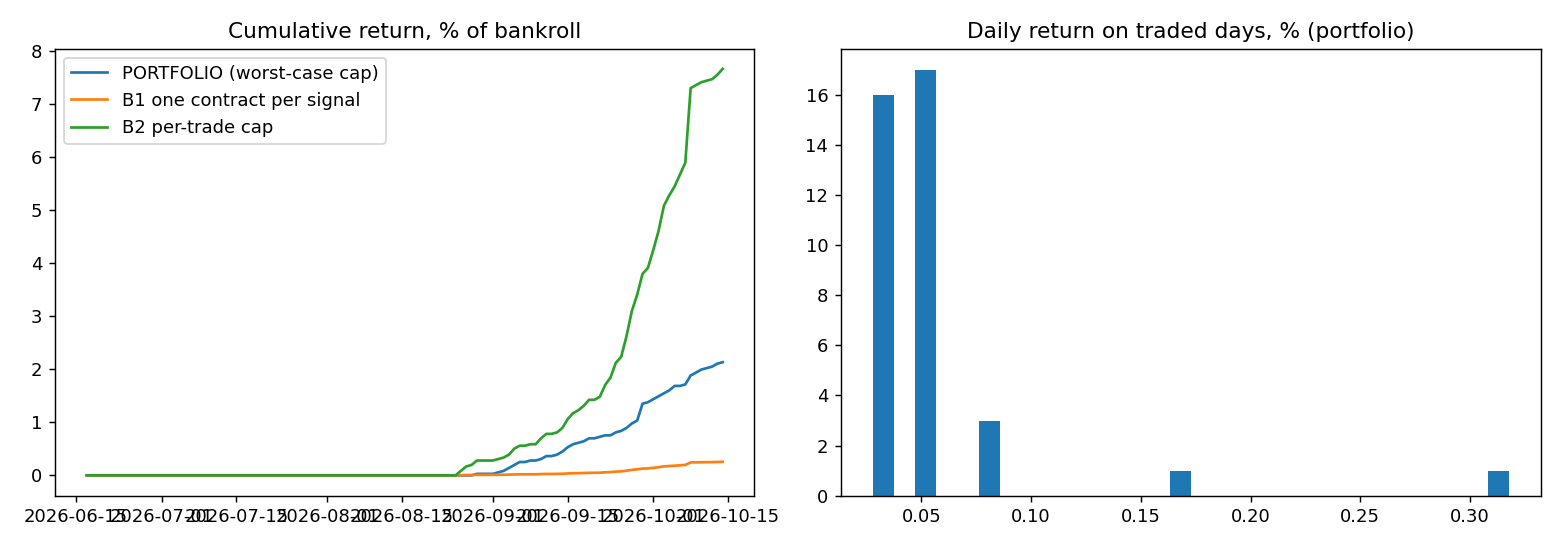
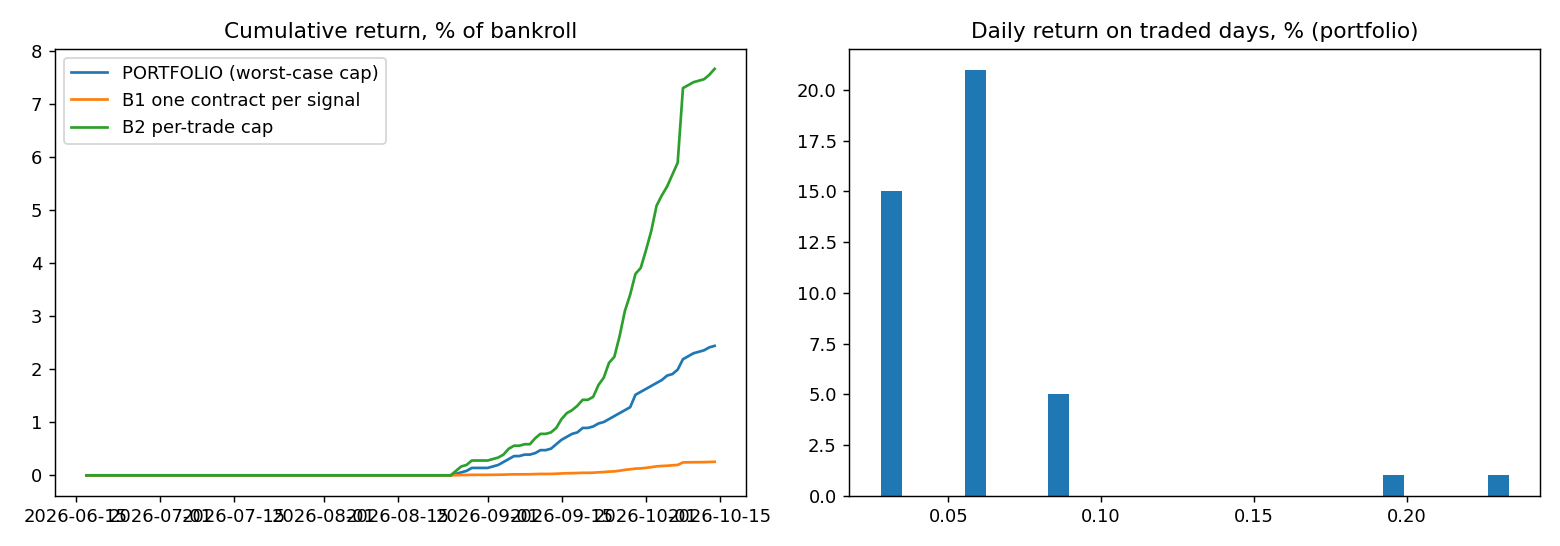
Fix tail sizing when a hedge leg cannot fill; report clipped sizing prices

diff --git a/strategies/btc-kalshi-digital/tail_strategy.py b/strategies/btc-kalshi-digital/tail_strategy.py
@@ -139,6 +139,11 @@ def run(obs, cfg, sizing="portfolio"):
                     if n < cfg.min_cell_n:
                         continue
                     side, price, edge = best_side(r.bid, r.ask, f, cfg)
+                    fill = r.ask_f if side == 1 else r.bid_f
+                    # a leg whose fill-hour quote is unusable is never placed; leaving it out BEFORE sizing keeps
+                    # the LP from counting on a hedge that cannot exist
+                    if (not np.isfinite(fill)) or (fill >= 1.0 if side == 1 else fill <= 0.0):
+                        continue
                     if edge >= cfg.min_edge:
                         cands.append(dict(day=day, ticker=r.ticker, H=H, side=side, size_price=price, edge=edge, f=f,
                                           y=r.y, floor=r.floor, bid_f=r.bid_f, ask_f=r.ask_f))
@@ -156,8 +161,7 @@ def run(obs, cfg, sizing="portfolio"):
                 placed = []
                 for c, qi in zip(cands, q):
                     fill = c["ask_f"] if c["side"] == 1 else c["bid_f"]
-                    unusable = (not np.isfinite(fill)) or (fill >= 1.0 if c["side"] == 1 else fill <= 0.0)
-                    if qi <= 0 or unusable:
+                    if qi <= 0:
                         continue
                     fe = fee(fill, cfg.fee_rate)
                     placed.append(dict(c, q=int(qi), fill=float(fill), fee=fe,
@@ -216,6 +220,8 @@ def summarize(trades, daily, cfg, label):
         f"max realized worst case {-live.realized_worst.min() / cfg.bankroll:.3%}, "
         f"breaches (realized worst past cap) {int(live.breach.sum())}",
         f"  mean capital deployed ${live.deployed.mean():,.2f} per day",
+        f"  {int(((trades.size_price <= 0.01 + 1e-9) | (trades.size_price >= 0.99 - 1e-9)).sum())} of {len(trades)} "
+        f"trades sized at the 1c/99c clip (slippage buffer inactive there)",
         f"  first half mean daily {pct(live.ret.iloc[:half].mean())} | second half {pct(live.ret.iloc[half:].mean())}",
     ]
     return "\n".join(lines)

diff --git a/strategies/btc-kalshi-digital/tests/test_tail_strategy.py b/strategies/btc-kalshi-digital/tests/test_tail_strategy.py
@@ -141,3 +141,23 @@ def test_main_writes_outputs(tmp_path):
     main(["--data", str(p), "--out-dir", str(tmp_path / "out"), "--no-plot"])
     for f in ("tail_trades.csv", "tail_daily.csv", "tail_summary.txt"):
         assert (tmp_path / "out" / f).exists()
+
+
+# ---------------------------------------------------------------- final-review fixes
+def test_unfillable_hedge_leg_does_not_break_cap():
+    obs = _synth()
+    last = obs.day.max()
+    obs.loc[(obs.day == last) & (obs.mid > 0.90), "ask_f"] = 1.0   # buys cannot fill, sells can
+    tr, dy = run(obs, Config())
+    d = dy[dy.day == last].iloc[0]
+    assert (tr[tr.day == last].side == -1).all() and d.n_trades > 0
+    assert d.assumed_worst >= -30 - 1e-9 and not d.breach
+
+
+def test_summary_reports_clipped_sizing_prices():
+    tr, dy = run(_synth(), Config())
+    s = summarize(tr, dy, Config(), "portfolio")
+    assert f"0 of {len(tr)} trades sized at the 1c/99c clip" in s
+    tr2 = tr.copy()
+    tr2.loc[tr2.index[:3], "size_price"] = 0.01
+    assert f"3 of {len(tr)} trades sized at the 1c/99c clip" in summarize(tr2, dy, Config(), "portfolio")
